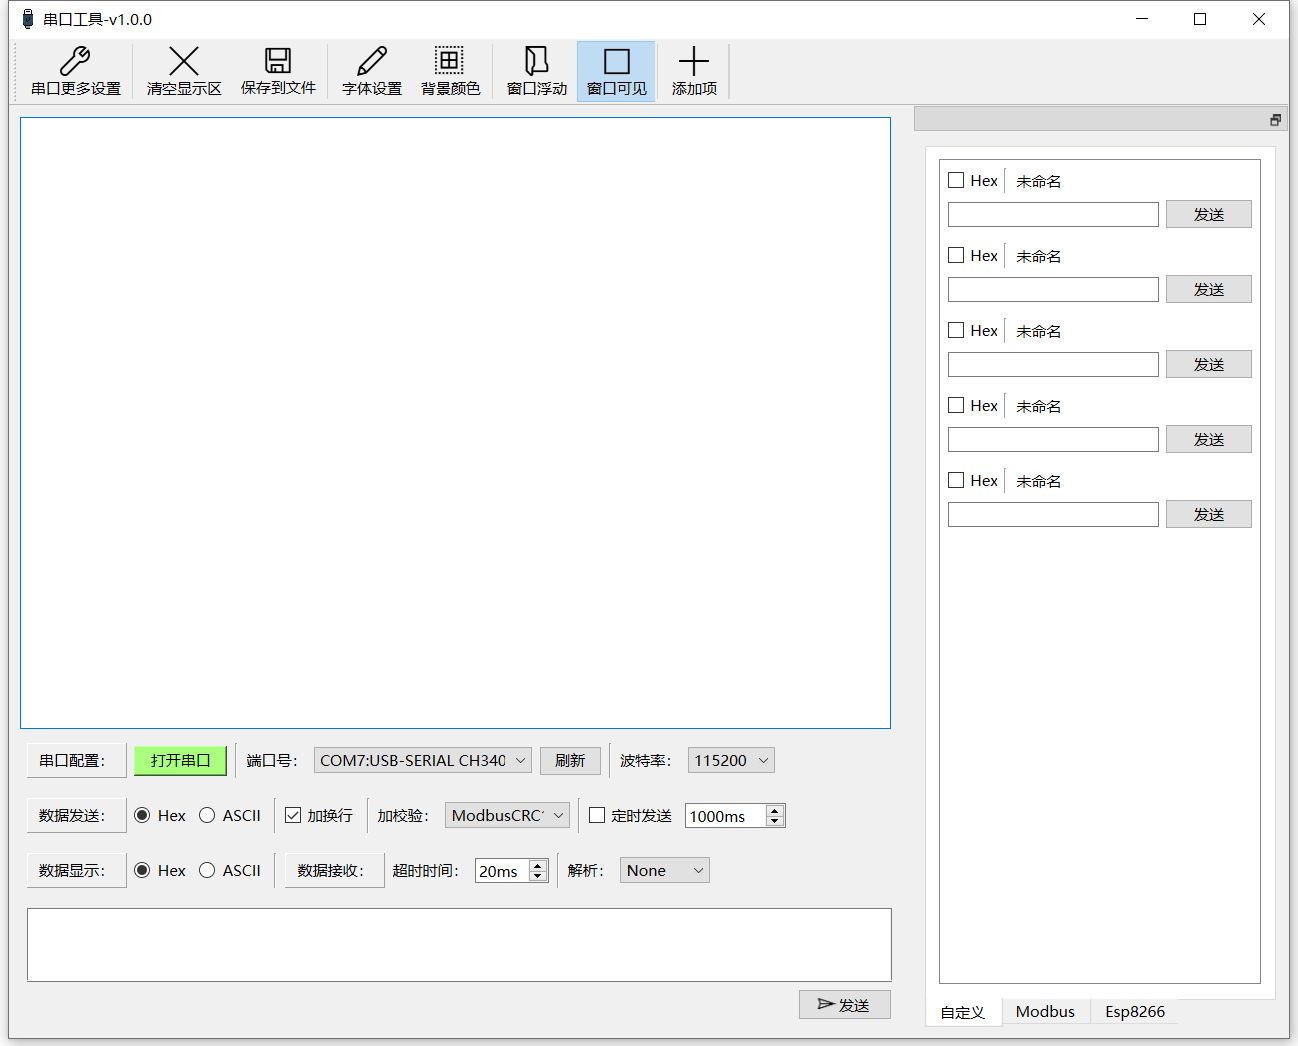
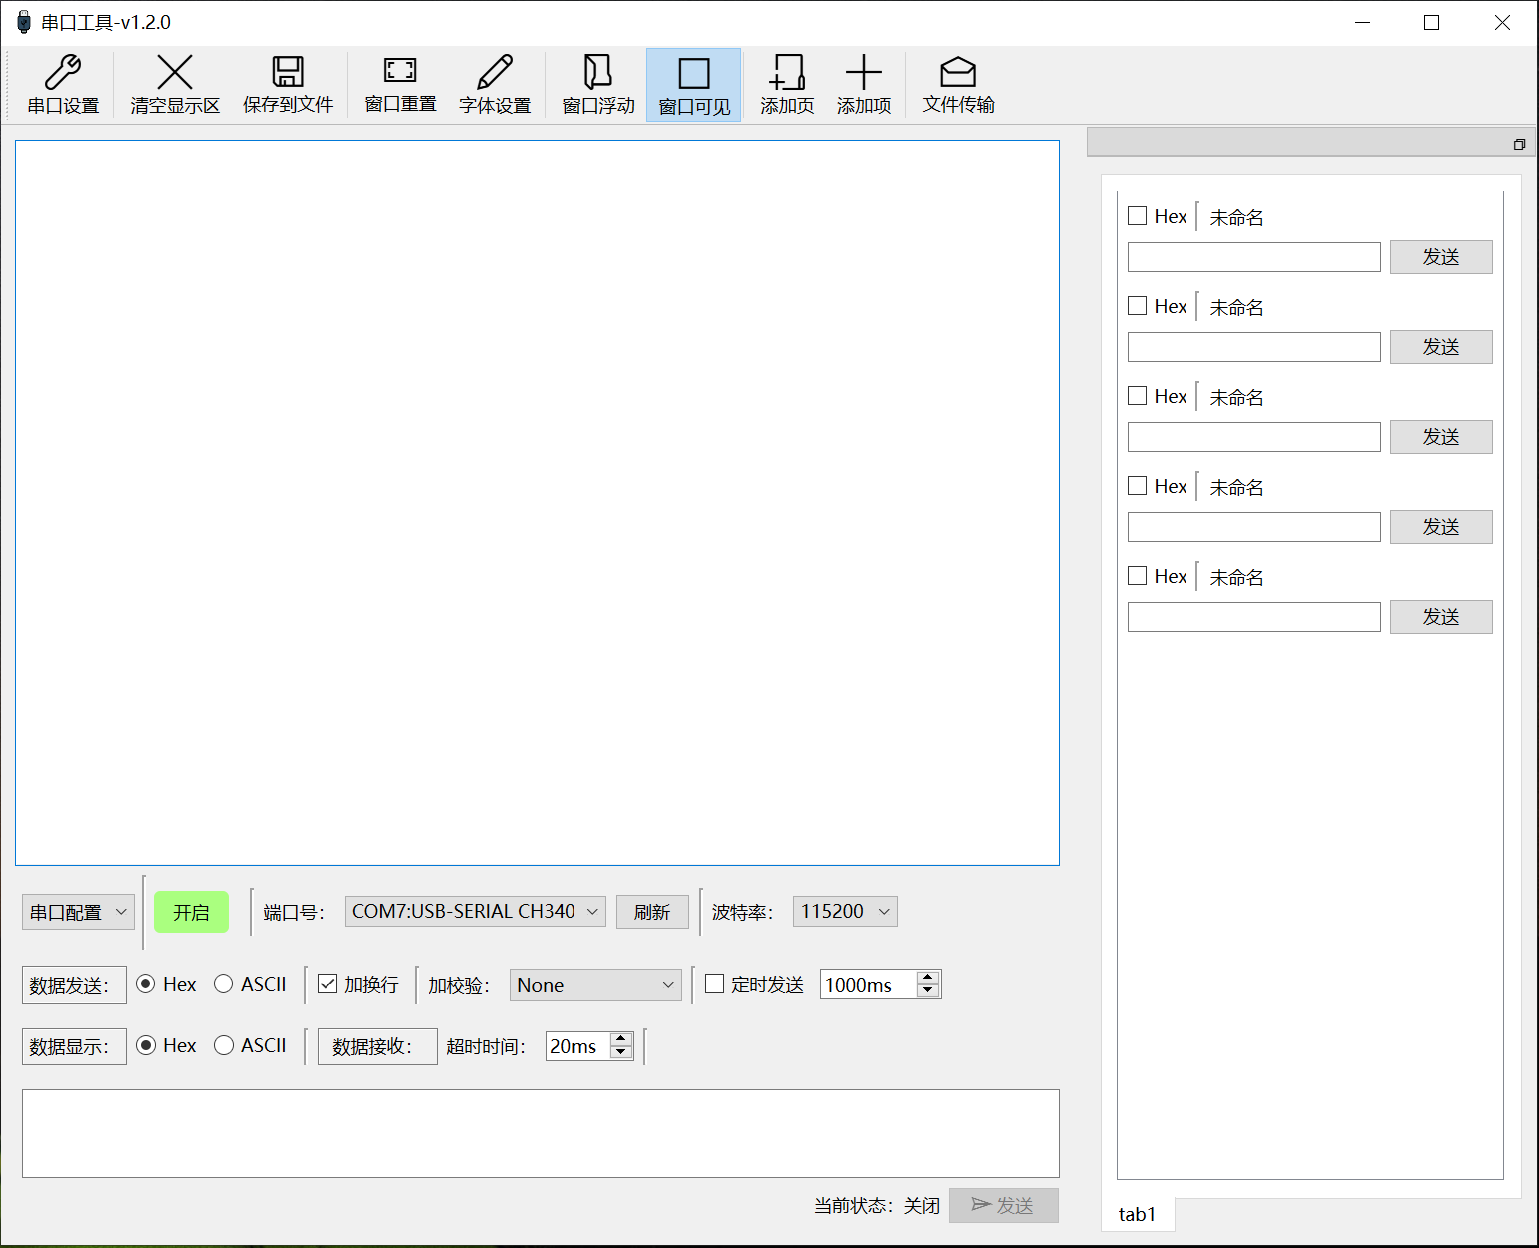
增加图片展示

Changed region(s): [[0.0, 0.0, 1.0, 1.0], [0.0, 0.0, 0.6471, 0.9484]]

diff --git a/appconfig.cpp b/appconfig.cpp
@@ -34,7 +34,7 @@ Config_t AppConfig::loadConfig()
     config.sendFile.model = 0;
     config.sendFile.filePath = setting_.value("ToolBar/send/filePath",QDir::currentPath()).toString();
     config.sendFile.dataSize = setting_.value("ToolBar/send/dataSize", 1024).toInt();
-    config.sendFile.cmd = setting_.value("ToolBar/send/cmd", "7F").toString();
+    config.sendFile.cmd = setting_.value("ToolBar/send/cmd", "01 42 00 01 00 01").toString();
     config.sendFile.ack = setting_.value("ToolBar/send/ack", "79").toString();
     config.sendFile.timeoutMs = setting_.value("ToolBar/send/timeoutMs", 200).toInt();
 

diff --git a/networkmanager.cpp b/networkmanager.cpp
@@ -91,7 +91,7 @@ void NetworkManager::sendData(const QByteArray &content)
     else if(curNetworkModel_ == UDP){
         QHostAddress targetAddr(udpTargetIP_);
         udpSocket_->writeDatagram(content, targetAddr, udpTargetPort_);
-        qDebug()<<"测试network";
+        // qDebug()<<"测试network";
     }
     qDebug()<<curNetworkModel_;
     qDebug()<<udpSocket_->state();

diff --git a/sendfiledialog.cpp b/sendfiledialog.cpp
@@ -28,6 +28,8 @@ SendFileDialog::SendFileDialog(SendFile_t sendFileConfig, QWidget *parent)
     ui->lineEdit_Cmd->setText(config_.cmd);
     ui->lineEdit_Ack->setText(config_.ack);
     ui->spinBox_Timeout->setValue(config_.timeoutMs);
+
+    // this->setToolTip("下载时请勿操作");
 }
 
 SendFileDialog::~SendFileDialog()

diff --git a/README.md b/README.md
@@ -1,7 +1,9 @@
 # Qt串口工具
 
+<img src="./screenshot/interface.png" style="zoom:75%;" />
+
 ## 功能介绍
-一个基于 Qt6 开发的通用串口工具，支持自定义数据发送，和功能按钮封装
+一个基于 Qt6 开发的通用串口、网络调试工具，支持自定义数据发送、IAP升级。
 
 ## 版本更新记录
 ### v1.0.0(2026-04-18)
@@ -29,4 +31,5 @@
 Qt6.10.1 + MSVC2022 + Windows10 64位
 
 ### 待更新
+- IAP下载时增加提示
 - 蓝牙模式